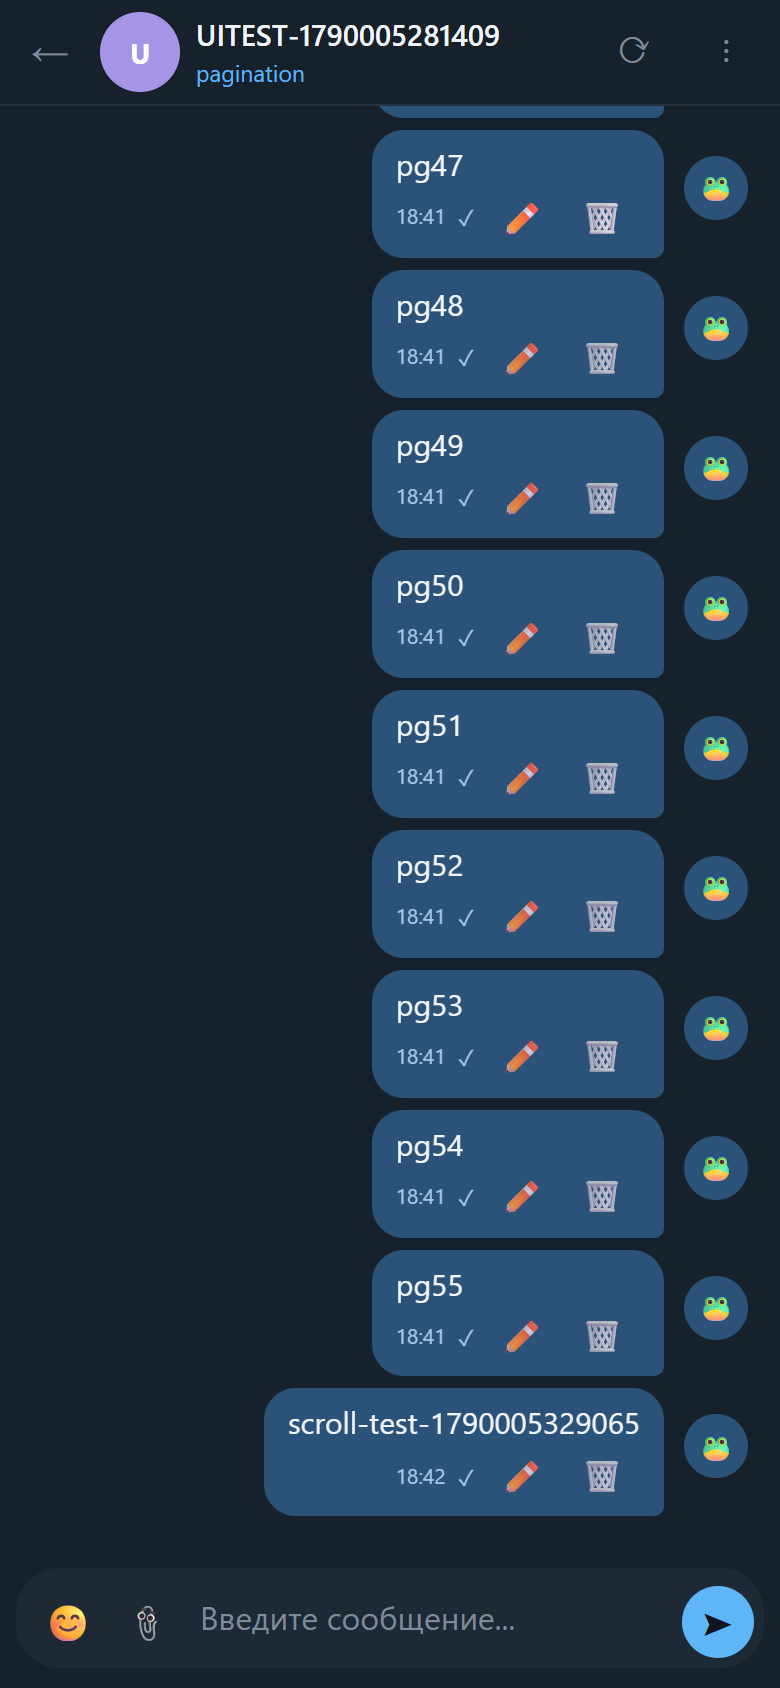
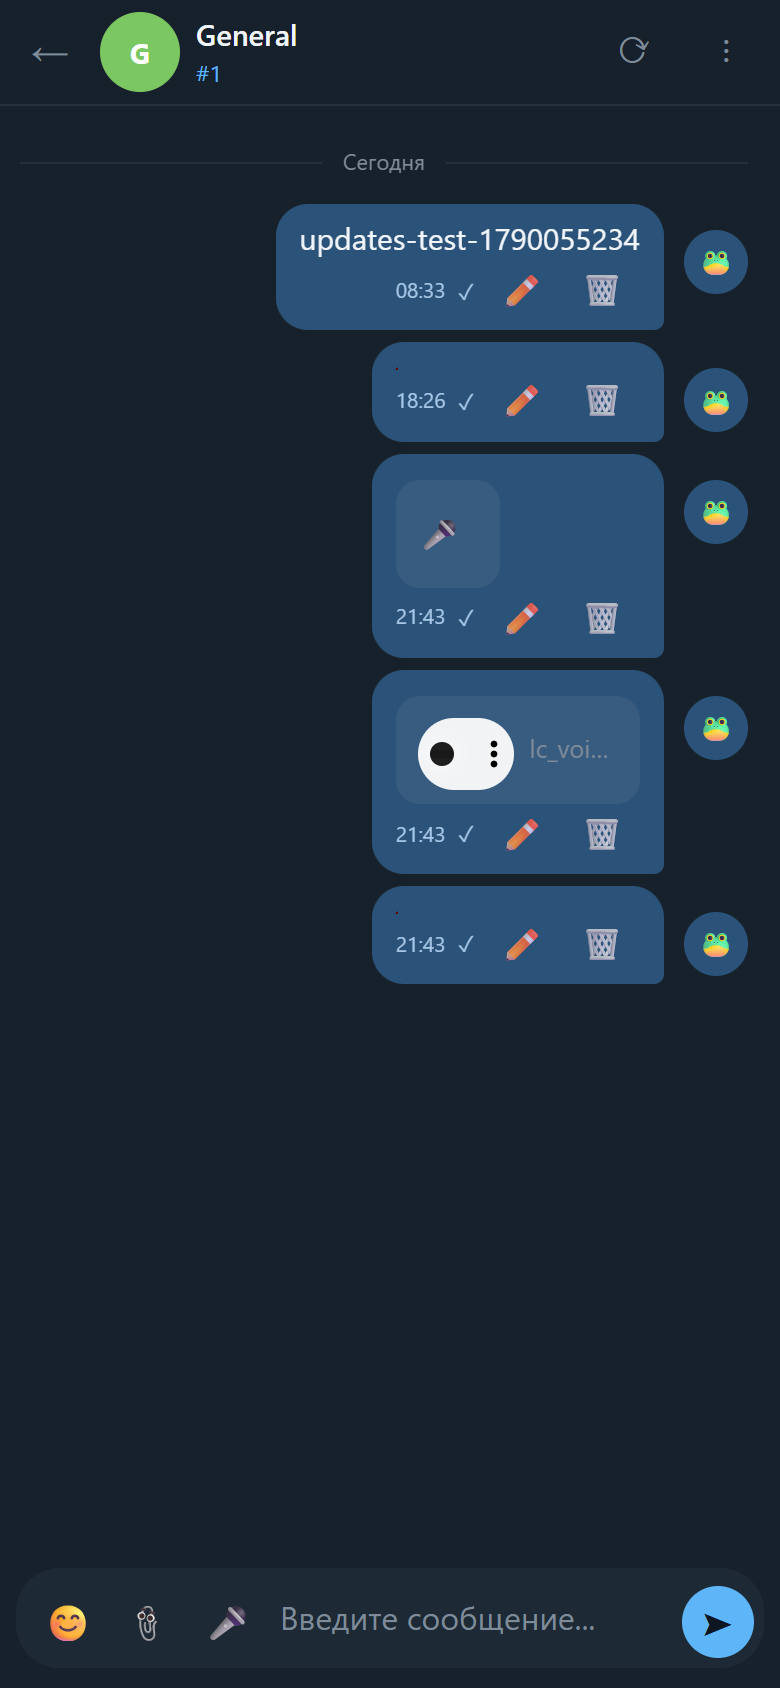
feat(chat): voice messages - record, preview, send, playback
- mic button in composer (MediaRecorder): audio/mp4 on iOS, audio/webm(opus) on Chrome/Android
- recording bar with red dot, timer, Cancel / Done; auto-stop at 5 min; mic button shows recording state
- after stop the clip becomes a normal pending attachment with an inline player (play / remove / re-record) and is uploaded via the existing media API
- audio attachments in the feed render as players; voice clips hide the filename and show a mic icon
- clear message when recording is unavailable (no HTTPS / no mic) - attach an audio file instead
- tests/ui/voice_check.js 17/17 (fake media devices: record, timer, preview, send, cancel, no-mic path, file upload); ui_test 24/24; mobile_chrome_check 26/26
- cache-buster v=1789902800

Changed region(s): [[0.3385, 0.0616, 0.9538, 0.9242], [0.1231, 0.0, 0.6462, 0.0616], [0.2462, 0.955, 0.7385, 0.9858]]

diff --git a/server/app/static/app.js b/server/app/static/app.js
@@ -176,7 +176,8 @@ function renderAttachments(items) {
       return `<a class="attachment image" href="${safeUrl(url)}" data-name="${name}" onclick="openImageLightbox(this.href, this.dataset.name);return false"><img src="${safeUrl(url)}" alt="${name}"><span>${name}</span></a>`;
     }
     if (a.media_kind === 'audio' || mime.startsWith('audio/')) {
-      return `<div class="attachment audio"><div>${name}</div><audio controls preload="none" src="${safeUrl(url)}"></audio></div>`;
+      const isVoice = /^voice-/i.test(String(a.filename || ''));
+      return `<div class="attachment audio">${isVoice ? '<span class="voice-ico">🎤</span>' : ''}<audio controls preload="none" src="${safeUrl(url)}"></audio>${isVoice ? '' : `<div class="fname">${name}</div>`}</div>`;
     }
     return `<a class="attachment file" href="${safeUrl(url)}" target="_blank" rel="noopener">📎 ${name}</a>`;
   }).join('')}</div>`;
@@ -621,9 +622,15 @@ function fmtBytes(n) {
 }
 
 function fileChipsHtml(files) {
-  return files.map((f, i) =>
-    `<span class="attach-chip"><span class="attach-name">📎 ${esc(f.name)}</span><span class="attach-size">${fmtBytes(f.size)}</span><button class="attach-remove" data-i="${i}" title="${t('remove')}">✕</button></span>`
-  ).join('');
+  return files.map((f, i) => {
+    const isAudio = /^audio\//.test(f.type || '') || /\.(m4a|webm|ogg|opus|mp3|wav|aac|flac)$/i.test(f.name || '');
+    if (isAudio) {
+      let url = '';
+      try { url = URL.createObjectURL(f); } catch (e) { url = ''; }
+      return `<span class="attach-chip voice"><audio controls preload="metadata" src="${url}"></audio><span class="attach-size">${fmtBytes(f.size)}</span><button class="attach-remove" data-i="${i}" title="${t('remove')}">✕</button></span>`;
+    }
+    return `<span class="attach-chip"><span class="attach-name">📎 ${esc(f.name)}</span><span class="attach-size">${fmtBytes(f.size)}</span><button class="attach-remove" data-i="${i}" title="${t('remove')}">✕</button></span>`;
+  }).join('');
 }
 
 function wireFileChips(box, files, onRemove) {
@@ -641,6 +648,114 @@ function addPendingFiles(list) {
     if (pendingFiles.some(x => x.name === f.name && x.size === f.size)) continue;
     pendingFiles.push(f);
   }
+  renderAttachPreview();
+}
+
+// ===== Voice messages (MediaRecorder) =====
+// getUserMedia needs a secure context (https or localhost). On the plain-http
+// portal the mic button explains this and suggests attaching an audio file.
+const VOICE_MAX_SEC = 300;
+let voiceRec = null;
+let voiceChunks = [];
+let voiceStream = null;
+let voiceTimer = null;
+let voiceStartMs = 0;
+
+function voiceSupported() {
+  return !!(window.MediaRecorder && navigator.mediaDevices && navigator.mediaDevices.getUserMedia && window.isSecureContext);
+}
+
+function voicePickMime() {
+  const candidates = ['audio/mp4', 'audio/webm;codecs=opus', 'audio/webm', 'audio/ogg;codecs=opus', 'audio/ogg'];
+  if (!window.MediaRecorder || !MediaRecorder.isTypeSupported) return '';
+  for (const c of candidates) {
+    try { if (MediaRecorder.isTypeSupported(c)) return c; } catch (e) {}
+  }
+  return '';
+}
+
+function voiceExt(mime) {
+  if (/mp4|m4a|aac/.test(mime)) return 'm4a';
+  if (/ogg|opus/.test(mime)) return 'ogg';
+  if (/wav/.test(mime)) return 'wav';
+  return 'webm';
+}
+
+function voiceTick() {
+  const timer = $('#voice-timer');
+  const sec = Math.floor((Date.now() - voiceStartMs) / 1000);
+  if (timer) timer.textContent = Math.floor(sec / 60) + ':' + String(sec % 60).padStart(2, '0');
+  if (sec >= VOICE_MAX_SEC) voiceStop();
+}
+
+function voiceCleanup() {
+  if (voiceTimer) { clearInterval(voiceTimer); voiceTimer = null; }
+  if (voiceStream) { voiceStream.getTracks().forEach(tr => tr.stop()); voiceStream = null; }
+  voiceRec = null;
+  const rec = $('#voice-rec');
+  const mic = $('#mic-btn');
+  if (rec) rec.classList.add('hidden');
+  if (mic) mic.classList.remove('recording');
+}
+
+async function voiceStart() {
+  if (!voiceSupported()) { toast(t('voice_need_https'), 'error'); return; }
+  if (voiceRec) return;
+  let stream;
+  try {
+    stream = await navigator.mediaDevices.getUserMedia({audio: true});
+  } catch (e) {
+    toast(t('voice_no_mic'), 'error');
+    return;
+  }
+  voiceStream = stream;
+  voiceChunks = [];
+  const mime = voicePickMime();
+  try {
+    voiceRec = mime ? new MediaRecorder(stream, {mimeType: mime}) : new MediaRecorder(stream);
+  } catch (e) {
+    voiceRec = new MediaRecorder(stream);
+  }
+  const actualMime = voiceRec.mimeType || mime || 'audio/webm';
+  voiceRec.ondataavailable = (e) => { if (e.data && e.data.size) voiceChunks.push(e.data); };
+  voiceRec.onstop = () => {
+    const blob = new Blob(voiceChunks, {type: actualMime});
+    voiceChunks = [];
+    voiceCleanup();
+    if (blob.size > 0) voiceAttach(blob, actualMime);
+  };
+  voiceStartMs = Date.now();
+  try { voiceRec.start(250); } catch (e) { voiceCleanup(); toast(t('voice_no_mic'), 'error'); return; }
+  const rec = $('#voice-rec');
+  const mic = $('#mic-btn');
+  const timer = $('#voice-timer');
+  if (rec) rec.classList.remove('hidden');
+  if (mic) mic.classList.add('recording');
+  if (timer) timer.textContent = '0:00';
+  voiceTimer = setInterval(voiceTick, 250);
+}
+
+function voiceStop() {
+  if (voiceRec && voiceRec.state !== 'inactive') {
+    try { voiceRec.stop(); return; } catch (e) {}
+  }
+  voiceCleanup();
+}
+
+function voiceCancel() {
+  if (voiceRec && voiceRec.state !== 'inactive') {
+    voiceRec.onstop = null;
+    try { voiceRec.stop(); } catch (e) {}
+  }
+  voiceChunks = [];
+  voiceCleanup();
+}
+
+function voiceAttach(blob, mime) {
+  if (blob.size > MAX_UPLOAD_MB * 1024 * 1024) { toast(t('file_too_large'), 'error'); return; }
+  if (pendingFiles.length >= MAX_ATTACH_FILES) { toast(t('too_many_files'), 'error'); return; }
+  const file = new File([blob], 'voice-' + Date.now() + '.' + voiceExt(mime), {type: mime});
+  pendingFiles.push(file);
   renderAttachPreview();
 }
 
@@ -756,10 +871,18 @@ async function doLoadMessages(opts) {
       <div id="msg-list" class="msg-list"></div>
       <div class="comp">
         <div id="attach-preview" class="attach-preview"></div>
+        <div id="voice-rec" class="voice-rec hidden">
+          <span class="rec-dot"></span>
+          <span id="voice-timer" class="rec-time">0:00</span>
+          <span class="spacer"></span>
+          <button class="btn btn-sm btn-outline" id="voice-cancel">${t('cancel')}</button>
+          <button class="btn btn-sm btn-primary" id="voice-stop">${t('voice_stop')}</button>
+        </div>
         <div class="comp-field">
           <input id="msg-file" type="file" multiple style="display:none" accept="${FILE_ACCEPT}">
           <button class="comp-btn" id="emoji-btn" title="😊">😊</button>
           <button class="comp-btn" id="attach-btn" title="${t('attach')}">📎</button>
+          <button class="comp-btn" id="mic-btn" title="${t('voice_msg')}" aria-label="${t('voice_msg')}">🎤</button>
           <textarea id="msg-input" placeholder="${t('type_msg')}" rows="1"></textarea>
           <button class="comp-btn send" id="send-btn" title="${t('send')}">➤</button>
         </div>
@@ -808,6 +931,12 @@ async function doLoadMessages(opts) {
     const msgFile = $('#msg-file');
     if ($('#attach-btn')) $('#attach-btn').onclick = () => msgFile && msgFile.click();
     if (msgFile) msgFile.onchange = () => { addPendingFiles(msgFile.files); msgFile.value = ''; };
+    const micBtn = $('#mic-btn');
+    if (micBtn) micBtn.onclick = () => { if (voiceRec) voiceStop(); else voiceStart(); };
+    const voiceStopBtn = $('#voice-stop');
+    if (voiceStopBtn) voiceStopBtn.onclick = voiceStop;
+    const voiceCancelBtn = $('#voice-cancel');
+    if (voiceCancelBtn) voiceCancelBtn.onclick = voiceCancel;
     renderAttachPreview();
     const miEl = $('#msg-input');
     miEl.onkeydown = e => {if(e.key==='Enter'&&!e.shiftKey){e.preventDefault();sendMessage()}};
@@ -2256,6 +2385,10 @@ var T = {
 "new_chat":{rus:"Новый чат",eng:"New Chat"},"dm":{rus:"Личка",eng:"DM"},
 "menu":{rus:"Меню",eng:"Menu"},
 "edit_msg":{rus:"Редактировать сообщение",eng:"Edit message"},
+"voice_msg":{rus:"Голосовое сообщение",eng:"Voice message"},
+"voice_stop":{rus:"Готово",eng:"Done"},
+"voice_need_https":{rus:"Запись с микрофона работает только по HTTPS (или на localhost). Можно приложить готовый аудиофайл.",eng:"Microphone recording needs HTTPS (or localhost). You can attach an audio file instead."},
+"voice_no_mic":{rus:"Не удалось получить доступ к микрофону. Проверьте разрешение браузера.",eng:"Could not access the microphone. Check the browser permission."},
 "devices_subtitle":{rus:"Сопряжение и управление устройствами",eng:"Pair and manage devices"},
 "pair_by_code":{rus:"Сопряжение по коду",eng:"Pair by code"},
 "pair_hint":{rus:"Включите устройство и введите 6-значный код с его экрана. Код действует 5 минут и срабатывает один раз.",eng:"Turn on the device and enter the 6-digit code from its screen. The code is valid for 5 minutes and works once."},

diff --git a/tests/ui/voice_check.js b/tests/ui/voice_check.js
@@ -1,0 +1,130 @@
+// Voice messages: record button, recording bar, preview, upload, playback.
+// Uses Chrome fake media devices (localhost is a secure context).
+// Run: node tests/ui/voice_check.js
+const fs = require("fs");
+const os = require("os");
+const path = require("path");
+const { chromium, SHOTS, check, summary, login } = require("./lib");
+
+const FAKE_MEDIA_ARGS = ["--use-fake-ui-for-media-stream", "--use-fake-device-for-media-stream"];
+
+(async () => {
+  // ---------- 1. recording works (fake mic, secure context = localhost) ----------
+  const browser = await chromium.launch({ channel: "msedge", headless: true, args: FAKE_MEDIA_ARGS });
+  const ctx = await browser.newContext({ viewport: { width: 1280, height: 800 }, permissions: ["microphone"] });
+  const page = await ctx.newPage();
+  const errs = [];
+  page.on("pageerror", e => errs.push(e.message));
+  await login(page, "admin", "7428");
+  const items = await page.$$("#chat-list .chat-item");
+  check("chat list has items", items.length > 0, "n=" + items.length);
+  await items[0].click();
+  await page.waitForTimeout(1200);
+
+  check("mic button in composer", await page.isVisible("#mic-btn"));
+  const secure = await page.evaluate(() => window.isSecureContext);
+  check("localhost is a secure context", secure === true);
+
+  await page.click("#mic-btn");
+  await page.waitForTimeout(1600);
+  const recState = await page.evaluate(() => ({
+    barVisible: !document.querySelector("#voice-rec").classList.contains("hidden"),
+    timer: document.querySelector("#voice-timer").textContent,
+    micHot: document.querySelector("#mic-btn").classList.contains("recording")
+  }));
+  check("recording bar visible", recState.barVisible, JSON.stringify(recState));
+  check("mic button in recording state", recState.micHot, JSON.stringify(recState));
+  check("timer counts up", recState.timer !== "0:00", recState.timer);
+  await page.screenshot({ path: SHOTS + "voice-recording.png" });
+
+  await page.click("#voice-stop");
+  await page.waitForTimeout(1200);
+  const preview = await page.evaluate(() => ({
+    barHidden: document.querySelector("#voice-rec").classList.contains("hidden"),
+    chips: document.querySelectorAll(".attach-chip.voice").length,
+    player: !!document.querySelector(".attach-chip.voice audio"),
+    size: (document.querySelector(".attach-chip.voice .attach-size") || {}).textContent || ""
+  }));
+  check("recording bar hidden after stop", preview.barHidden, JSON.stringify(preview));
+  check("voice chip with player appears", preview.chips === 1 && preview.player, JSON.stringify(preview));
+  check("recorded file has size", /\d/.test(preview.size), preview.size);
+  await page.screenshot({ path: SHOTS + "voice-preview.png" });
+
+  await page.click("#send-btn");
+  await page.waitForTimeout(3500);
+  const sent = await page.evaluate(() => {
+    const msgs = document.querySelectorAll("#msg-list .msg");
+    const last = msgs[msgs.length - 1];
+    if (!last) return null;
+    const audio = last.querySelector(".attachment.audio audio");
+    return { hasAudio: !!audio, src: audio ? String(audio.getAttribute("src")).slice(0, 60) : "", chips: document.querySelectorAll(".attach-chip.voice").length };
+  });
+  check("voice message sent and rendered as player", sent && sent.hasAudio, JSON.stringify(sent));
+  check("preview cleared after send", sent && sent.chips === 0, JSON.stringify(sent));
+
+  await page.click("#mic-btn");
+  await page.waitForTimeout(1200);
+  await page.click("#voice-cancel");
+  await page.waitForTimeout(800);
+  const cancelled = await page.evaluate(() => ({
+    barHidden: document.querySelector("#voice-rec").classList.contains("hidden"),
+    chips: document.querySelectorAll(".attach-chip.voice").length
+  }));
+  check("cancel discards recording", cancelled.barHidden && cancelled.chips === 0, JSON.stringify(cancelled));
+  check("no page errors (recording)", errs.length === 0, errs.join(" | "));
+  await page.close();
+
+  // ---------- 2. no mediaDevices -> clear message, no crash ----------
+  const ctx2 = await browser.newContext({ viewport: { width: 390, height: 844 }, hasTouch: true, isMobile: true });
+  const page2 = await ctx2.newPage();
+  const errs2 = [];
+  page2.on("pageerror", e => errs2.push(e.message));
+  await page2.addInitScript(() => {
+    Object.defineProperty(navigator, "mediaDevices", { get: () => undefined, configurable: true });
+  });
+  await login(page2, "admin", "7428");
+  const items2 = await page2.$$("#chat-list .chat-item");
+  await items2[0].click();
+  await page2.waitForTimeout(1200);
+  await page2.click("#mic-btn");
+  await page2.waitForTimeout(900);
+  const noMic = await page2.evaluate(() => {
+    const toast = document.querySelector(".toast");
+    return { toast: toast ? toast.textContent.slice(0, 90) : "", bar: !document.querySelector("#voice-rec").classList.contains("hidden") };
+  });
+  check("no-HTTPS/no-mic path shows clear message", noMic.toast.length > 10 && !noMic.bar, JSON.stringify(noMic));
+  check("no page errors (no-mic path)", errs2.length === 0, errs2.join(" | "));
+  await page2.screenshot({ path: SHOTS + "voice-no-mic.png" });
+  await page2.close();
+
+  // ---------- 3. audio file upload renders as a player ----------
+  const ctx3 = await browser.newContext({ viewport: { width: 1280, height: 800 } });
+  const page3 = await ctx3.newPage();
+  const wavPath = path.join(os.tmpdir(), "lc_voice_test.wav");
+  const samples = 2400; // 0.3s of silence, 8 kHz mono 16-bit
+  const buf = Buffer.alloc(44 + samples * 2);
+  buf.write("RIFF", 0); buf.writeUInt32LE(36 + samples * 2, 4); buf.write("WAVE", 8);
+  buf.write("fmt ", 12); buf.writeUInt32LE(16, 16); buf.writeUInt16LE(1, 20); buf.writeUInt16LE(1, 22);
+  buf.writeUInt32LE(8000, 24); buf.writeUInt32LE(16000, 28); buf.writeUInt16LE(2, 32); buf.writeUInt16LE(16, 34);
+  buf.write("data", 36); buf.writeUInt32LE(samples * 2, 40);
+  fs.writeFileSync(wavPath, buf);
+  await login(page3, "admin", "7428");
+  const items3 = await page3.$$("#chat-list .chat-item");
+  await items3[0].click();
+  await page3.waitForTimeout(1200);
+  await page3.setInputFiles("#msg-file", wavPath);
+  await page3.waitForTimeout(800);
+  check("uploaded audio shows a chip player", await page3.evaluate(() => !!document.querySelector(".attach-chip.voice audio")));
+  await page3.click("#send-btn");
+  await page3.waitForTimeout(3000);
+  const uploaded = await page3.evaluate(() => {
+    const msgs = document.querySelectorAll("#msg-list .msg");
+    const last = msgs[msgs.length - 1];
+    return last ? !!last.querySelector(".attachment.audio audio") : false;
+  });
+  check("uploaded audio message renders as player", uploaded);
+  await page3.close();
+
+  await browser.close();
+  process.exit(summary());
+})().catch(e => { console.error("ERR", e.message); process.exit(1); });

diff --git a/server/app/static/app.css b/server/app/static/app.css
@@ -139,11 +139,28 @@ html:has(body.chat-mode){overflow:hidden}
 #msg-input{flex:1;background:none;border:0;outline:0;color:var(--text);font:inherit;resize:none;max-height:120px;padding:9px 4px;line-height:1.4;min-width:0}
 #msg-input::placeholder{color:var(--text2)}
 .attach-preview{display:flex;flex-wrap:wrap;gap:6px;padding:0 4px 8px}
-.attach-chip{display:inline-flex;align-items:center;gap:7px;background:var(--bg3);border-radius:10px;padding:6px 10px;font-size:12px;color:var(--text2);max-width:100%}
+.attach-chip{display:inline-flex;align-items:center;gap:8px;background:var(--bg3);border:1px solid var(--border);border-radius:12px;padding:5px 10px;font-size:12.5px;color:var(--text)}
+.attach-chip .attach-name{max-width:180px;white-space:nowrap;overflow:hidden;text-overflow:ellipsis}
+.attach-chip .attach-size{color:var(--text2)}
+.attach-chip.voice{padding:4px 8px}
+.attach-chip.voice audio{height:34px;max-width:200px}
+.attach-remove{background:none;border:none;color:var(--text2);cursor:pointer;font-size:13px;padding:2px 4px;border-radius:8px}
+.attach-remove:hover{background:var(--hover);color:var(--accent4)}
+
+/* Voice recording bar */
+.voice-rec{display:flex;align-items:center;gap:10px;padding:8px 10px;margin:0 0 8px;background:var(--bg3);border:1px solid var(--border);border-radius:14px}
+.voice-rec.hidden{display:none}
+.voice-rec .spacer{flex:1}
+.rec-dot{width:10px;height:10px;border-radius:50%;background:var(--accent4);animation:recPulse 1.1s ease-in-out infinite;flex:0 0 auto}
+.rec-time{font-variant-numeric:tabular-nums;font-weight:700;font-size:15px;letter-spacing:.02em}
+@keyframes recPulse{0%,100%{opacity:1}50%{opacity:.25}}
+.comp-btn.recording{background:var(--accent4);color:#fff;animation:recPulse 1.4s ease-in-out infinite}
+.attachment.audio{display:flex;align-items:center;gap:8px;background:rgba(255,255,255,.06);padding:7px 11px;border-radius:12px}
+.attachment.audio audio{height:36px;max-width:280px}
+.attachment.audio .fname{font-size:12.5px;color:var(--text2);max-width:220px;white-space:nowrap;overflow:hidden;text-overflow:ellipsis}
+.attachment.audio .voice-ico{font-size:16px;flex:0 0 auto}
 .attach-name{overflow:hidden;text-overflow:ellipsis;white-space:nowrap;max-width:200px}
 .attach-size{opacity:.8}
-.attach-remove{background:transparent;border:none;color:var(--text2);cursor:pointer;font-size:12px;padding:0 2px}
-.attach-remove:hover{color:var(--accent4)}
 .emoji-pop{position:absolute;bottom:58px;left:0;background:var(--bg2);border:1px solid var(--border);border-radius:14px;padding:8px;display:none;grid-template-columns:repeat(8,1fr);gap:2px;z-index:80;box-shadow:var(--shadow);max-height:220px;overflow-y:auto;width:296px}
 .emoji-pop.open{display:grid}
 .emoji-pop button{background:none;border:none;font-size:19px;cursor:pointer;padding:5px;border-radius:8px;line-height:1}

diff --git a/server/app/templates/index.html b/server/app/templates/index.html
@@ -5,7 +5,7 @@
 <meta name="viewport" content="width=device-width,initial-scale=1.0,maximum-scale=1.0,user-scalable=no">
 <meta name="theme-color" content="#0e1621">
 <title>Local Chat</title>
-<link rel="stylesheet" href="/static/app.css?v=1789902700">
+<link rel="stylesheet" href="/static/app.css?v=1789902800">
 </head>
 <body>
 <div id="static-login" class="auth-wrap">
@@ -74,7 +74,7 @@
   </noscript>
 </main>
 
-<script src="/static/app.js?v=1789902700"></script>
+<script src="/static/app.js?v=1789902800"></script>
 
 <script>
 var _st = localStorage.getItem("lc_session_token");
